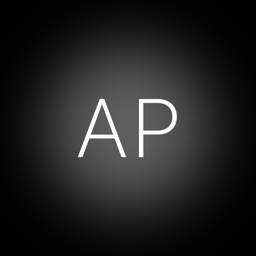
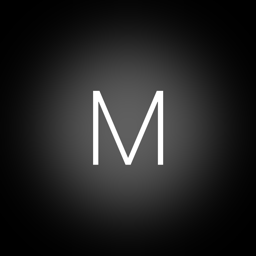
Umbenennung in Mjoll

Changed region(s): [[0.2812, 0.3438, 0.7188, 0.6562]]

diff --git a/support.html b/support.html
@@ -4,13 +4,13 @@
   <meta charset="utf-8">
   <meta name="viewport" content="width=device-width, initial-scale=1">
   <meta name="robots" content="noindex, nofollow, noarchive">
-  <title>Ananda Pulse Support</title>
+  <title>Mjoll Support</title>
   <link rel="stylesheet" href="style.css">
 </head>
 <body>
 <main>
   <header>
-    <img src="icon.png" alt="Ananda Pulse app icon">
+    <img src="icon.png" alt="Mjoll app icon">
     <h1>Support</h1>
     <nav>
       <a href="./">Home</a>
@@ -22,10 +22,10 @@
 
   <h2>I don't feel any vibration</h2>
   <p>Make sure vibration is turned on in <strong>Settings › Accessibility › Touch › Vibration</strong>.
-  Ananda Pulse needs an iPhone with a Taptic Engine (iPhone 8 or later).</p>
+  Mjoll needs an iPhone with a Taptic Engine (iPhone 8 or later).</p>
 
   <h2>The session stopped by itself</h2>
-  <p>iOS only plays haptics while the app is open. Keep Ananda Pulse in the foreground during a session.
+  <p>iOS only plays haptics while the app is open. Keep Mjoll in the foreground during a session.
   The screen stays on but is dimmed to almost black. If you lock the iPhone or switch apps, the session ends.</p>
 
   <h2>How do I stop a session?</h2>
@@ -34,7 +34,7 @@
 
   <h2>Can I make a program slower or faster?</h2>
   <p>Yes. During a session, touch the screen and use the speed slider above the Stop button – from 50 % to 150 %.
-  Ananda Pulse remembers your speed for each program, so you only set it once.</p>
+  Mjoll remembers your speed for each program, so you only set it once.</p>
 
   <h2>How does it end?</h2>
   <p>When the time is up, the vibration fades out gently over the last 30 seconds and ends without any extra signal,

diff --git a/privacy.html b/privacy.html
@@ -4,13 +4,13 @@
   <meta charset="utf-8">
   <meta name="viewport" content="width=device-width, initial-scale=1">
   <meta name="robots" content="noindex, nofollow, noarchive">
-  <title>Ananda Pulse Privacy</title>
+  <title>Mjoll Privacy</title>
   <link rel="stylesheet" href="style.css">
 </head>
 <body>
 <main>
   <header>
-    <img src="icon.png" alt="Ananda Pulse app icon">
+    <img src="icon.png" alt="Mjoll app icon">
     <h1>Privacy Policy</h1>
     <p class="muted">Last updated: October 2, 2026</p>
     <nav>
@@ -24,7 +24,7 @@
   <p><a href="#de">Deutsche Fassung weiter unten.</a></p>
 
   <h2>In short</h2>
-  <p>Ananda Pulse does not collect, store or share any personal data. There are no accounts, no analytics,
+  <p>Mjoll does not collect, store or share any personal data. There are no accounts, no analytics,
   no advertising and no tracking. The app works entirely on your iPhone and does not connect to any server.</p>
 
   <h2>Controller</h2>
@@ -63,7 +63,7 @@
   <h1 id="de" style="font-size:1.6rem">Datenschutzerklärung</h1>
 
   <h2>Kurz gesagt</h2>
-  <p>Ananda Pulse erhebt, speichert und teilt keine personenbezogenen Daten. Es gibt keine Konten, keine Analyse,
+  <p>Mjoll erhebt, speichert und teilt keine personenbezogenen Daten. Es gibt keine Konten, keine Analyse,
   keine Werbung und kein Tracking. Die App arbeitet vollständig auf deinem iPhone und verbindet sich mit keinem Server.</p>
 
   <h2>Verantwortlicher</h2>

diff --git a/index.html b/index.html
@@ -4,14 +4,14 @@
   <meta charset="utf-8">
   <meta name="viewport" content="width=device-width, initial-scale=1">
   <meta name="robots" content="noindex, nofollow, noarchive">
-  <title>Ananda Pulse</title>
+  <title>Mjoll</title>
   <link rel="stylesheet" href="style.css">
 </head>
 <body>
 <main>
   <header>
-    <img src="icon.png" alt="Ananda Pulse app icon">
-    <h1>Ananda Pulse</h1>
+    <img src="icon.png" alt="Mjoll app icon">
+    <h1>Mjoll</h1>
     <p class="muted">Place it. Close your eyes. Feel.</p>
     <nav>
       <a href="./" aria-current="page">Home</a>
@@ -21,14 +21,14 @@
     </nav>
   </header>
 
-  <p>Ananda Pulse is a calm iPhone app for haptic meditation. Rest your iPhone on your chest, hold it in your hand
+  <p>Mjoll is a calm iPhone app for haptic meditation. Rest your iPhone on your chest, hold it in your hand
   or place it on your forehead while lying down. Gentle vibration patterns guide your attention – no sound,
   nothing to watch.</p>
 
   <p>Use it for meditation, to accompany breathwork, or to wind down before sleep.
   Set the speed of each program to your own pace – the app remembers it.</p>
 
-  <p class="muted">Ananda Pulse is a wellness and relaxation app. It is not a medical device and does not diagnose,
+  <p class="muted">Mjoll is a wellness and relaxation app. It is not a medical device and does not diagnose,
   treat or prevent any condition.</p>
 </main>
 </body>

diff --git a/imprint.html b/imprint.html
@@ -4,13 +4,13 @@
   <meta charset="utf-8">
   <meta name="viewport" content="width=device-width, initial-scale=1">
   <meta name="robots" content="noindex, nofollow, noarchive">
-  <title>Ananda Pulse Impressum</title>
+  <title>Mjoll Impressum</title>
   <link rel="stylesheet" href="style.css">
 </head>
 <body>
 <main>
   <header>
-    <img src="icon.png" alt="Ananda Pulse App-Icon">
+    <img src="icon.png" alt="Mjoll App-Icon">
     <h1>Impressum</h1>
     <p class="muted">Imprint</p>
     <nav>
